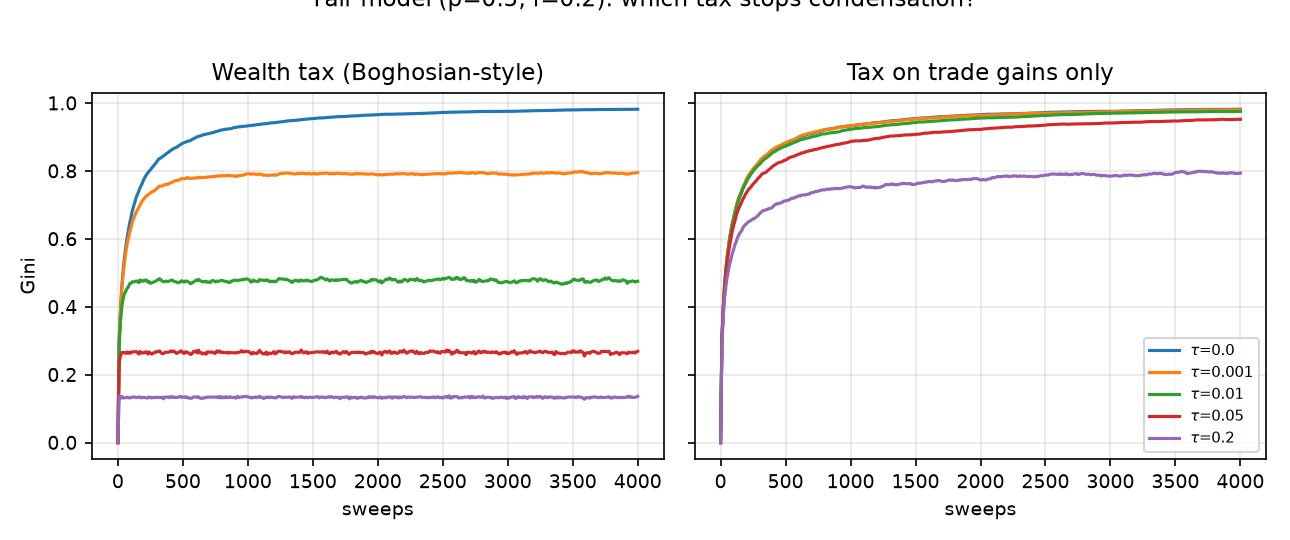
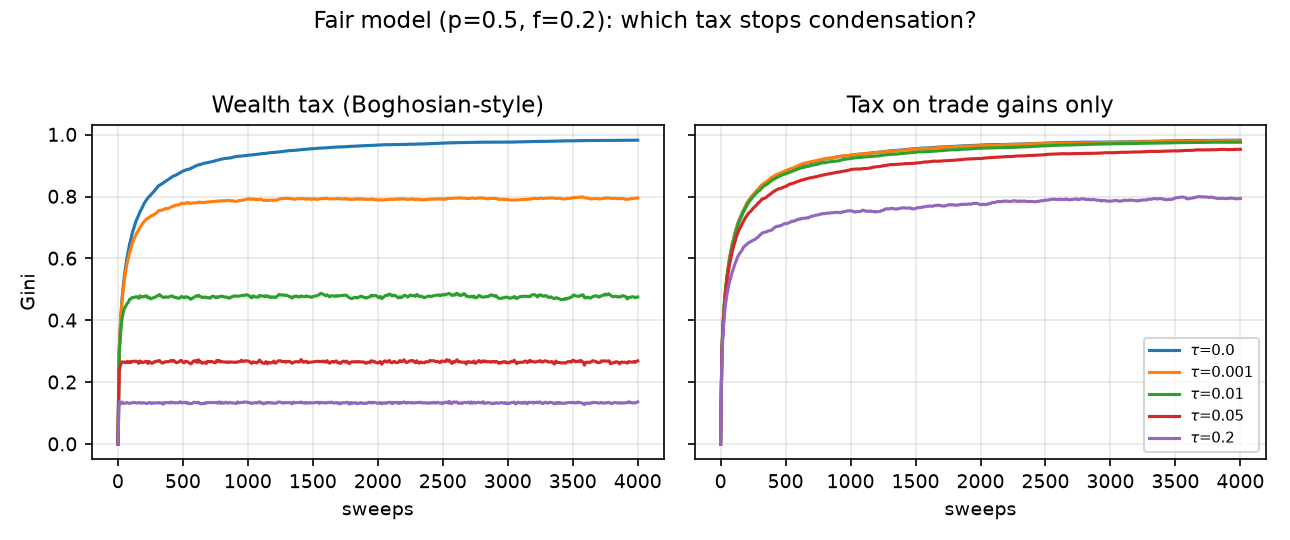
Fix: idea1 figure titles (#3)
* fix: keep idea1 figure titles inside the saved images

* fix: remove log scale as that causes artifacts

diff --git a/investigations/idea1-yardsale/prototype/run_experiments.py b/investigations/idea1-yardsale/prototype/run_experiments.py
@@ -183,7 +183,7 @@ def expt_p_scan(quick=False):
             axes[1].errorbar(p, lam.mean(), yerr=lam.std(), fmt="o", capsize=3, color="C1")
     axes[1].set(xlabel="bias p", ylabel="early growth rate $\\lambda$ of max share",
                 title="Early exponential growth of the oligarch")
-    axes[0].annotate("x = censored\n(no condensation in 5000 sweeps)", xy=(0.5, sweeps * 0.75),
+    axes[0].annotate("x = censored\n(no condensation in 5000 sweeps)", xy=(0.8, sweeps * 0.9),
                      fontsize=7, ha="center")
     fig.tight_layout()
     fig.savefig(os.path.join(FIGURES, "fig2_bias_scan.png"))
@@ -349,8 +349,8 @@ def expt_tax_mode(quick=False):
     axes[0].set(xlabel="sweeps", ylabel="Gini", title="Wealth tax (Boghosian-style)")
     axes[1].set(xlabel="sweeps", title="Tax on trade gains only")
     axes[1].legend(fontsize=7)
-    fig.suptitle("Fair model (p=0.5, f=0.2): which tax stops condensation?", y=1.02)
-    fig.tight_layout()
+    fig.suptitle("Fair model (p=0.5, f=0.2): which tax stops condensation?")
+    fig.tight_layout(rect=(0.0, 0.0, 1.0, 0.94))
     fig.savefig(os.path.join(FIGURES, "fig6_tax_mode.png"))
     plt.close(fig)
 
@@ -422,7 +422,7 @@ def expt_finite_size(quick=False):
             if np.isnan(row["mean"]):
                 ax.plot(n, sweeps, "x", color=plt.gca().lines[-1].get_color())
     ax.set(xlabel="number of agents N", ylabel="sweeps to 50% share", xscale="log", yscale="log",
-           title="Fair model condensation is slow and N-dependent (f=0.3)")
+           title="Fair model condensation is slow\nand N-dependent (f=0.3)")
     ax.legend(fontsize=8)
     fig.tight_layout()
     fig.savefig(os.path.join(FIGURES, "fig8_finite_size.png"))
@@ -509,7 +509,7 @@ def main():
         bad = [c for c in checks if not c[1]]
         sys.exit(1 if bad else 0)
 
-    names = args.only or list(EXPTS)
+    names = ["p_scan"]
     t_start = time.perf_counter()
     for name in names:
         t0 = time.perf_counter()

diff --git a/investigations/idea1-yardsale/prototype/extra_mechanisms.py b/investigations/idea1-yardsale/prototype/extra_mechanisms.py
@@ -127,11 +127,11 @@ def rewiring_mechanism(sweeps=1500, seeds=4, rs=(0.0, 0.05, 0.2)):
     for ax, key, title in zip(axes, keys, titles):
         stat = df.groupby("r")[key].agg(["mean", "std"])
         ax.errorbar(stat.index, stat["mean"], yerr=stat["std"], fmt="o-", capsize=3)
-        ax.set(xlabel="rewiring rate r", ylabel=title, xscale="symlog")
+        ax.set(xlabel="rewiring rate r", ylabel=title)
     axes[2].axhline(df.mean_degree.mean(), color="k", ls="--", lw=0.8, label="mean degree")
     axes[2].legend(fontsize=8)
-    fig.suptitle("Rewiring does not create hubs - it multiplies trading partners", y=1.03)
-    fig.tight_layout()
+    fig.suptitle("Rewiring multiplies trading partners")
+    fig.tight_layout(rect=(0.0, 0.0, 1.0, 0.94))
     fig.savefig(os.path.join(FIGURES, "fig11_rewiring_mechanism.png"))
     plt.close(fig)
 
